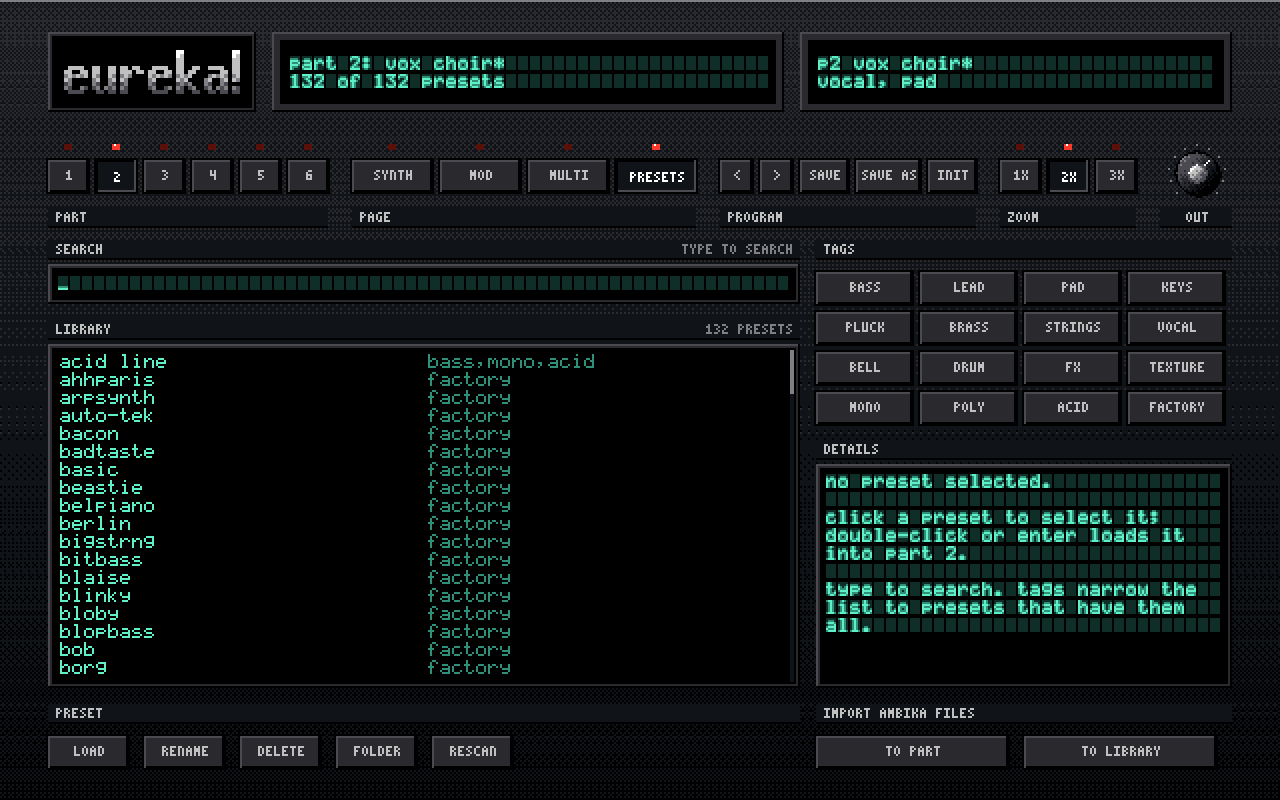
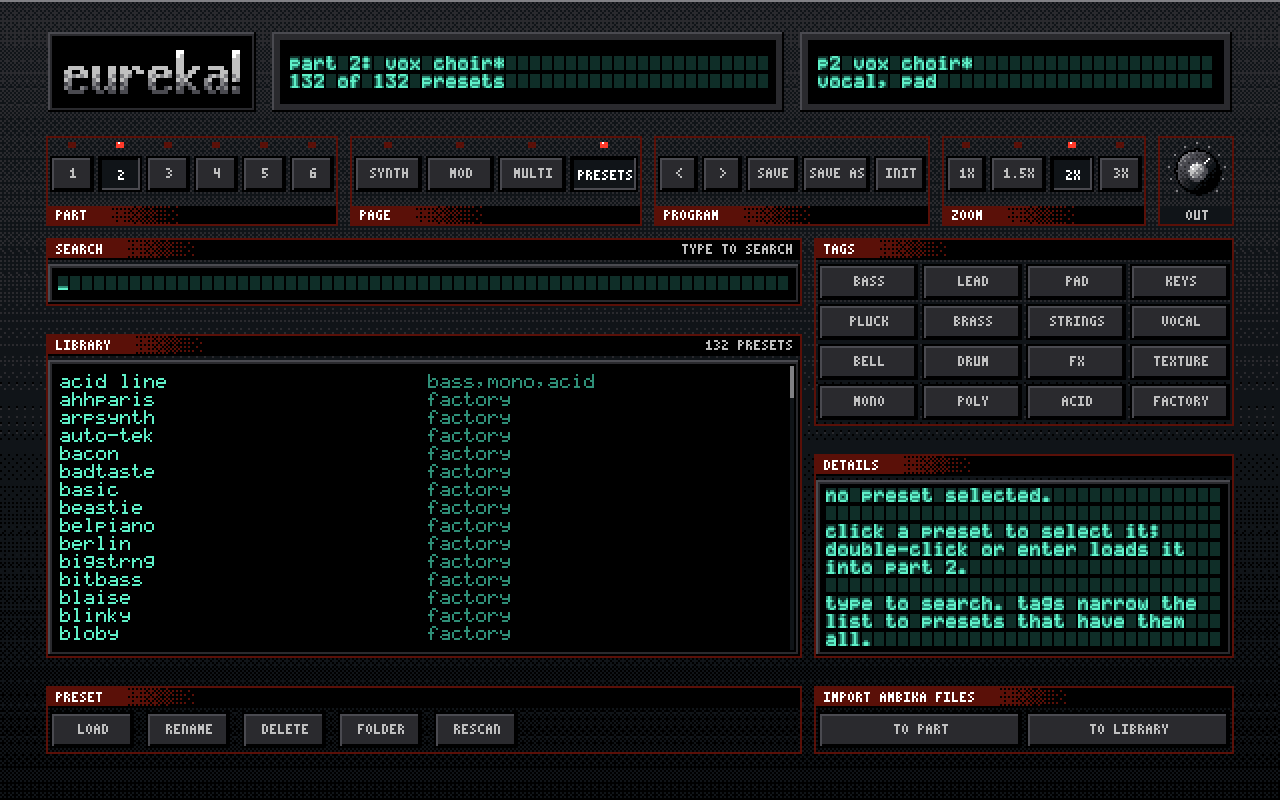
Pixel GUI: refresh screenshots, show the pixel faceplate in the README

Changed region(s): [[0.0312, 0.1562, 0.9688, 0.9688]]

diff --git a/README.md b/README.md
@@ -3,6 +3,14 @@
 **A six-part hybrid polysynth plug-in by Tootable Instruments, built on the
 Mutable Instruments Ambika.**
 
+![eureka! pixel faceplate GUI](docs/images/screenshot-pixel-synth.png)
+
+*This branch (`pixel-gui`) adds an optional pixel faceplate interface: a 640x400
+bitmap panel in a strict 16-colour palette, zoomable 1x / 1.5x / 2x / 3x. More
+pages: [mod matrix](docs/images/screenshot-pixel-mod-1-8.png),
+[multi](docs/images/screenshot-pixel-multi.png),
+[presets](docs/images/screenshot-pixel-presets.png).*
+
 eureka! runs the original Ambika voicecard firmware natively on your
 computer. It adds a model of the analog filter and VCA, a choice of Surge XT
 filters, stereo panning and a modern interface. It comes as VST3, AU and a
